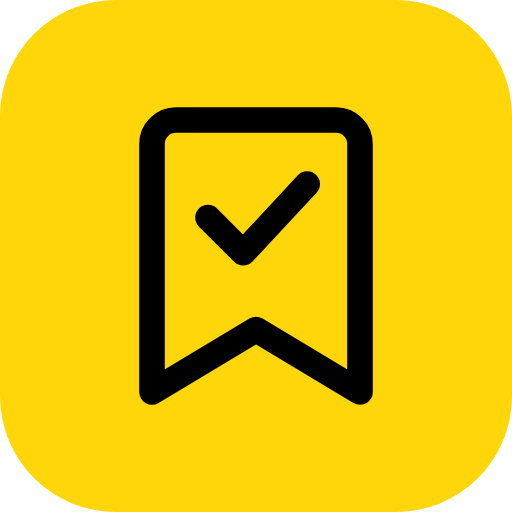
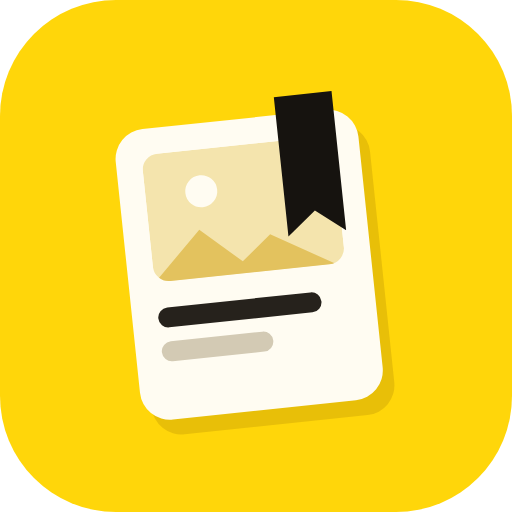
Ícone novo: cartão de papel com marcador (versão simples para tamanhos pequenos)

Changed region(s): [[0.2188, 0.1562, 0.75, 0.8438]]

diff --git a/css/app.css b/css/app.css
@@ -101,8 +101,7 @@ img { display: block; }
 .login-marca { display: flex; gap: 10px; align-items: center; font-weight: 700; font-size: 20px; margin-bottom: 18px; }
 .login-caixa h1 { font-size: clamp(30px, 7vw, 38px); }
 .login-form { display: grid; gap: 14px; margin-top: 14px; }
-.marca-logo { width: 30px; height: 30px; border-radius: 8px; background: var(--amarelo); color: #000; display: inline-grid; place-items: center; flex: none; }
-.marca-logo .ic { width: 20px; height: 20px; stroke-width: 2.2; }
+.marca-logo { width: 30px; height: 30px; border-radius: 8px; flex: none; }
 
 /* Grupos no estilo Ajustes do iPhone */
 .grupo { background: var(--card); border-radius: 12px; overflow: hidden; }
@@ -130,7 +129,6 @@ button.grupo-linha:active { background: var(--fill); }
 }
 .lateral-marca { display: flex; gap: 10px; align-items: center; padding: 2px 8px; font-weight: 700; font-size: 17px; text-decoration: none; }
 .lateral-marca .marca-logo { width: 26px; height: 26px; border-radius: 7px; }
-.lateral-marca .marca-logo .ic { width: 17px; height: 17px; }
 .nav { display: grid; gap: 2px; }
 .nav-item { display: flex; gap: 10px; align-items: center; padding: 8px 10px; border-radius: 10px; text-decoration: none; font-size: 15px; font-weight: 500; color: var(--txt); }
 .nav-item .ic { color: var(--azul); width: 20px; height: 20px; }

diff --git a/sw.js b/sw.js
@@ -1,11 +1,11 @@
 // Cache do app para abrir offline. Com internet, sempre busca a versão nova (rede primeiro).
-const VERSAO = 'guardei-v7';
+const VERSAO = 'guardei-v8';
 const ARQUIVOS = [
   './', 'index.html', 'manifest.webmanifest', 'css/app.css',
   'js/app.js', 'js/cloud.js', 'js/config.js', 'js/gemini.js', 'js/icons.js', 'js/link.js', 'js/mapa.js', 'js/pipeline.js', 'js/qr.js', 'js/search.js', 'js/ui.js',
   'vendor/firebase/firebase-app.js', 'vendor/firebase/firebase-auth.js', 'vendor/firebase/firebase-firestore.js', 'vendor/qrcode.mjs',
   'vendor/three.module.min.js', 'vendor/three.core.min.js', 'vendor/OrbitControls.js',
-  'icons/icon.svg', 'icons/icon-192.png',
+  'icons/icon.svg', 'icons/marca.svg', 'icons/icon-192.png',
 ];
 
 self.addEventListener('install', (e) => {

diff --git a/index.html b/index.html
@@ -9,7 +9,7 @@
   <meta http-equiv="Content-Security-Policy" content="default-src 'self'; script-src 'self'; style-src 'self'; img-src 'self' https: data:; connect-src 'self' https://*.googleapis.com https://www.youtube.com https://www.tiktok.com https://api.microlink.io; frame-src https://*.firebaseapp.com; object-src 'none'; base-uri 'self'; form-action 'self'">
   <meta name="referrer" content="strict-origin-when-cross-origin">
   <link rel="manifest" href="manifest.webmanifest">
-  <link rel="icon" href="icons/icon.svg" type="image/svg+xml">
+  <link rel="icon" href="icons/marca.svg" type="image/svg+xml">
   <link rel="apple-touch-icon" href="icons/icon-192.png">
   <link rel="stylesheet" href="css/app.css">
   <script type="module" src="js/app.js"></script>

diff --git a/js/app.js b/js/app.js
@@ -44,7 +44,7 @@ if (compartilhado) {
   history.replaceState(null, '', location.pathname + location.hash);
 }
 
-const marca = () => h('span', { class: 'marca-logo', 'aria-hidden': 'true' }, ic('marca'));
+const marca = () => h('img', { class: 'marca-logo', src: 'icons/marca.svg', alt: '', width: 30, height: 30 });
 
 // ---------- Login ----------
 function telaLogin() {
